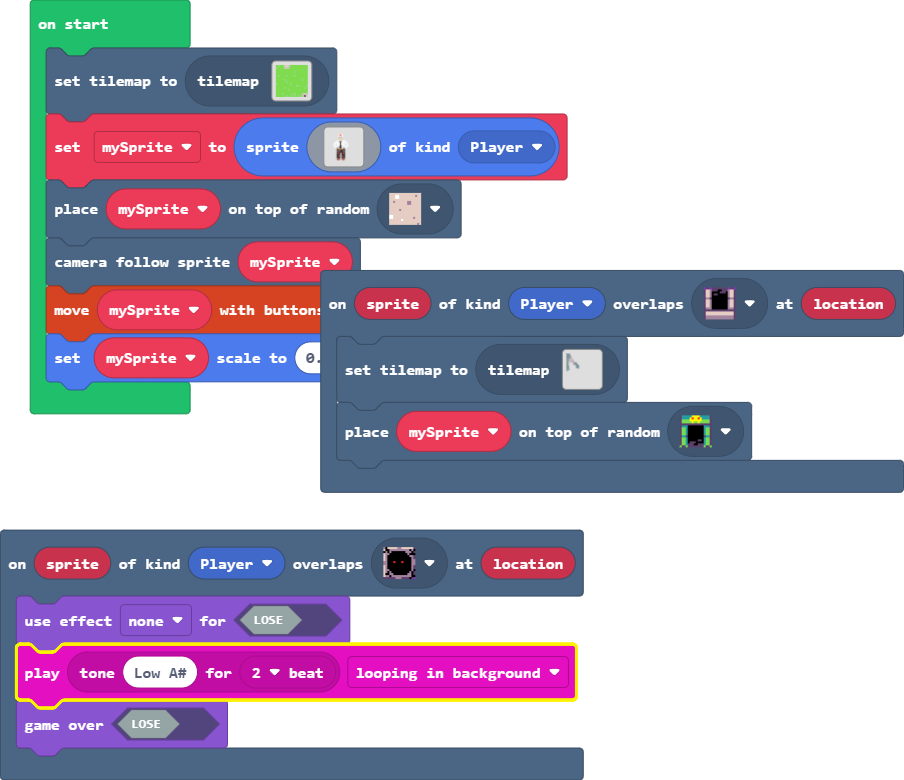
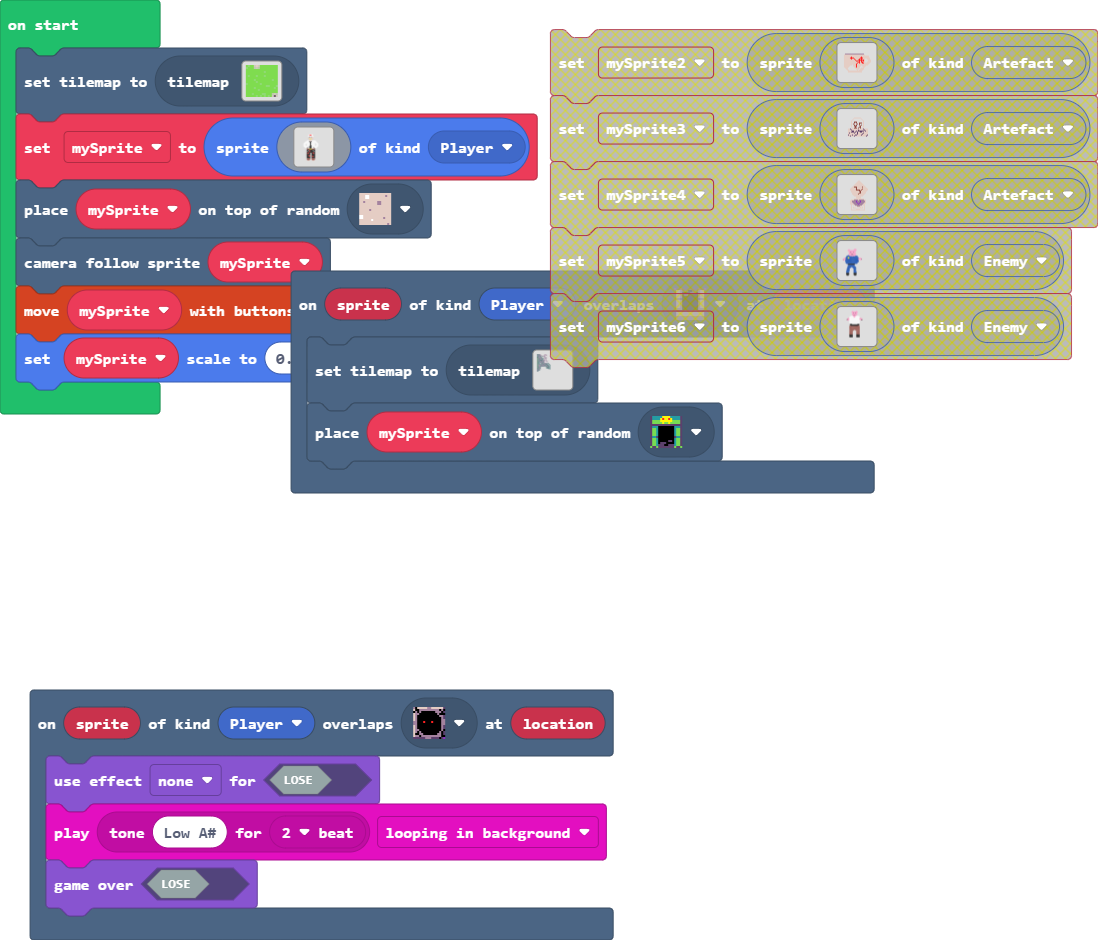
Update pxt.json, main.blocks, main.ts, images.g.jres, images.g.ts, tilemap.g.jres, tilemap.g.ts

diff --git a/tilemap.g.ts b/tilemap.g.ts
@@ -101,7 +101,7 @@ namespace myTiles {
 . . . . . . . . . . . . . . . . 
 `, [myTiles.transparency16], TileScale.Sixteen);
             case "level4":
[2 lines of base64/hex data omitted]
 2222.2222.....222222............................................
 2.......2.....2....2............................................
 2.22.22.22....2.22..............................................
@@ -118,20 +118,20 @@ namespace myTiles {
 2.22.222222.....22.222..........................................
 2.22....222.22.222..............................................
 2.22222..22.22.2.22222..........................................
-2.22..22....22.2................................................
-2.22...22.2222.2222222..........................................
-2.22........22.......22.........................................
-2.22........22.22222..22........................................
-2.22.........2.222222..22.......................................
-2.22.........2....2222..22......................................
-2.22.........2.22..2222..22.....................................
+2.222.22....22.2................................................
+2.222..22.2222.2222222..........................................
+2.222...2.2222.......22.........................................
+2.2222..2..222.22222..22........................................
+2.22.22.22..22.222222..22.......................................
+2.22..2..22.22....2222..22......................................
+2.22..22222.22.22..2222..22.....................................
 2.22...........222..2222..2.....................................
-2.22.............22..2222.2.....................................
-2.222.............22..222.2.....................................
-2.222..............22..22.2.....................................
-2.222...............22222.2.....................................
-22222..............222222.2.....................................
-22222..................22.2.....................................
+2.22...2222222.2.22..2222.2.....................................
+2.222..2..........22..222.2.....................................
+2.222.22...........22..22.2.....................................
+2.222.2.............22222.2.....................................
+22222.2............222222.2.....................................
+22222.22...............22.2.....................................
 2.........................2.....................................
 2.2222..........................................................
 2.2222..........................................................

diff --git a/images.g.ts b/images.g.ts
@@ -66,6 +66,237 @@ namespace myImages {
 ............................................................
 ............................................................
 `;
+            case "image4":
+            case "myImage1":return img`
+................................
+................................
+................................
+................................
+................................
+................................
+................................
+....bbbbbbbbbbbbbbbbbbb.........
+...ddddddddddddddddddddd........
+...ddddddddddddddddddddddddd....
+...ddddddd2ddddddddd2ddddddd....
+...dddddd2222dddddd222ddddddd...
+...ddddddd2dd2dddd2d2ddd..ddd...
+...ddddddddddd2dd222222d...ddd..
+...dddddddddddd22d2d2d2d...ddd..
+...dddddddddddddd22d22dd..dddd..
+...ddddddddddddd2d2dd22dddddd...
+...dddddddddddd2dddddddddddd....
+...dddddddd.ddd2ddddddddddd.....
+...dddddd...ddd2dddd.dddd.......
+...ddddd.....dd2ddd...dd........
+....ddd.......ddddd.ddd.........
+.....dd........ddd.dddd.........
+......dd........d.dddd..........
+.......dddddddddddddd...........
+.......dddddddddddddd...........
+................................
+................................
+................................
+................................
+................................
+................................
+`;
+            case "image5":
+            case "myImage2":return img`
+................................
+................................
+................................
+................................
+................................
+.............ddddddd............
+............d.......d...........
+...........d.........d..........
+..........d...........d.........
+..........d..eee......d.........
+..........d..e.e..eee.d.........
+..........d.e...e.e...d.........
+..........d..e.e..e.e.d.........
+..........d..eee...e..d.........
+..........d...e...ee..d.........
+...........d.eee.e.e.d..........
+.......ddcddddddddddddcdddd.....
+.......dddcddddddcdddddcddd.....
+.......ddddccddcdccccccdcdd.....
+.......dddcccdcdcddccdddddd.....
+.......dcddddcddcdddddcdddd.....
+.......dddddddddcddddcddddd.....
+.......cdddcddccddddcdddddc.....
+.......ddcdddcdddddddddddcd.....
+................................
+................................
+................................
+................................
+................................
+................................
+................................
+................................
+`;
+            case "image6":
+            case "myImage3":return img`
+................................
+................................
+.................dd.............
+................dddd............
+...............dddddd...........
+..............dddddddd..........
+.............dddddddddd.........
+............dddddddddddd........
+...........ddeeedddddeddd.......
+..........dddddedddddddddd......
+.........ddddddedddddeddddd.....
+.........ddddddeeeededddddd.....
+..........ddddddddeedddddd......
+..........dddddddddeddddd.......
+...........dddddddeeddddd.......
+...........ddddddedddddd........
+............ddddddddddd.........
+.............ddddddddd..........
+...............ddddd............
+...............ddddd............
+.............dddddddddd.........
+..........dddbbbbdbbbbbdd.......
+.........ddbbbbabbbabbbbd.......
+.........ddbbbbabbbabbbbd.......
+.........dddbbbbababbbbdd.......
+.........ddddbbbbabbbbdd........
+..........d.ddbbbbbbbddd........
+..........d...ddbbbdd..d........
+..........d.d...dddd.d.d........
+..........d.ddd....ddd.d........
+..........d....dddd....d........
+..........dddddddddddddd........
+`;
+            case "image2":
+            case "myImage":return img`
+............................................................
+............................................................
+............................................................
+............................................................
+............................................................
+............................................................
+............................................................
+............................................................
+.........................333................................
+..............33.........3333...............................
+.............3333......333333...............................
+.............333333333333333................................
+..............33333333333333................................
+...............333333333333.................................
+................33f3333f333.................................
+...............333333333333.................................
+...............333333333333.................................
+...............3333333333333................................
+...............33333f3f33333................................
+...............3333333333333................................
+.............88.333333333333................................
+...........88888833333333338888.............................
+..........888888888883888888888.............................
+..........8888588888888888888888............................
+.........888855588888888888888888...........................
+.....333388885558888888888888888833333......................
+.....3333888885888888888888888888333333.....................
+....3333388888888888888888888888833333f.....................
+....f33338888888888888888888888883..33......................
+....33..8888888888888888888888888...........................
+........8888888888888888888888888...........................
+........8888888888888888888888888...........................
+.........888888888888888888888888...........................
+.........8888888888888888888888.............................
+.........8888888888888888888888.............................
+..........88888888888888888888..............................
+.............fffffffffffff..................................
+.............fffffffffffff..................................
+..............88888888888...................................
+.............888888888888...................................
+.............8888888888888..................................
+.............88888888888888.................................
+............8888888..8888888................................
+............888888....888888................................
+............8888.......88888................................
+...........88888........8888................................
+...........88888........8888................................
+...........88888........8888................................
+...........88888........8888................................
+..........888888........8888................................
+..........88888.........88888...............................
+..........88888.........88888...............................
+..........88888.........88888...............................
+..........fffff.........fffff...............................
+..........fffff.........fffff...............................
+..........fffff.........fffff...............................
+..........fffff.........fffff...............................
+...........fff...........fff................................
+............................................................
+............................................................
+`;
+            case "image3":
+            case "myImage0":return img`
+............................................................
+.....................33.....33..............................
+....................33333333333.............................
+....................33333333333.............................
+.....................33f333f33..............................
+.....................333333333..............................
+.....................333333333..............................
+.....................333333333..............................
+.....................333f3f333..............................
+......................3333333...............................
+...................11113333311111...........................
+.................11111113331111111..........................
+................1111111133311111111.........................
+................1111111111111111111.........................
+.............3331111111111111111111333......................
+............3333111111111111111111133333....................
+...........3f333111111111111111111133333....................
+...........f33331111111111111111111..3ff....................
+............3...1111111111111111111.........................
+................1111111111111111111.........................
+................1111111111111111111.........................
+................1111111111111111111.........................
+................1111111111111111111.........................
+................1111111111111111111.........................
+.................11111111111111111..........................
+.................ffff1111111111fff..........................
+.................fffffffffffffffff..........................
+.................fffffffffffffffff..........................
+.................eefffffffffffffee..........................
+................eeeeeeeeeeeeeeeeeee.........................
+................eeeeeeeeeeeeeeeeeee.........................
+................eeeeeeeeeeeeeeeeeee.........................
+................eeeeeeeeeeeeeeeeeee.........................
+................eeeeeeeeeeeeeeeeeee.........................
+................eeeeeeeeeeeeeeeeeee.........................
+................eeeeeeeeeeeeeeeeeee.........................
+................eeeeeeee...eeeeeeee.........................
+................eeeeeee.....eeeeeee.........................
+................eeeeee.......eeeeee.........................
+................eeeeee.......eeeeee.........................
+................eeeeee.......eeeeee.........................
+................eeeeee.......eeeeee.........................
+................eeeeee.......eeeeee.........................
+................eeeeee.......eeeeee.........................
+................eeeeee.......eeeeee.........................
+................ffffff.......ffffff.........................
+................ffffff.......ffffff.........................
+................ffffff.......ffffff.........................
+................ffffff.......ffffff.........................
+................ffffff.......ffffff.........................
+............................................................
+............................................................
+............................................................
+............................................................
+............................................................
+............................................................
+............................................................
+............................................................
+............................................................
+............................................................
+`;
         }
         return null;
     })

diff --git a/main.ts b/main.ts
@@ -1,3 +1,6 @@
+namespace SpriteKind {
+    export const Artefact = SpriteKind.create()
+}
 scene.onOverlapTile(SpriteKind.Player, sprites.dungeon.doorOpenSouth, function (sprite, location) {
     tiles.setCurrentTilemap(tilemap`level4`)
     tiles.placeOnRandomTile(mySprite, assets.tile`myTile8`)
